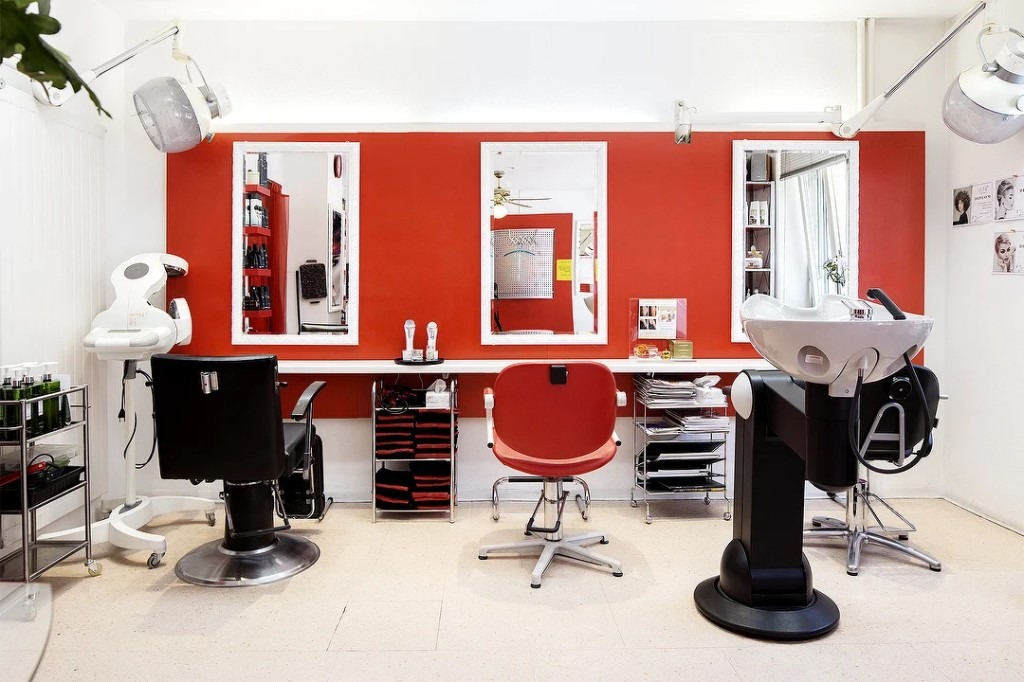
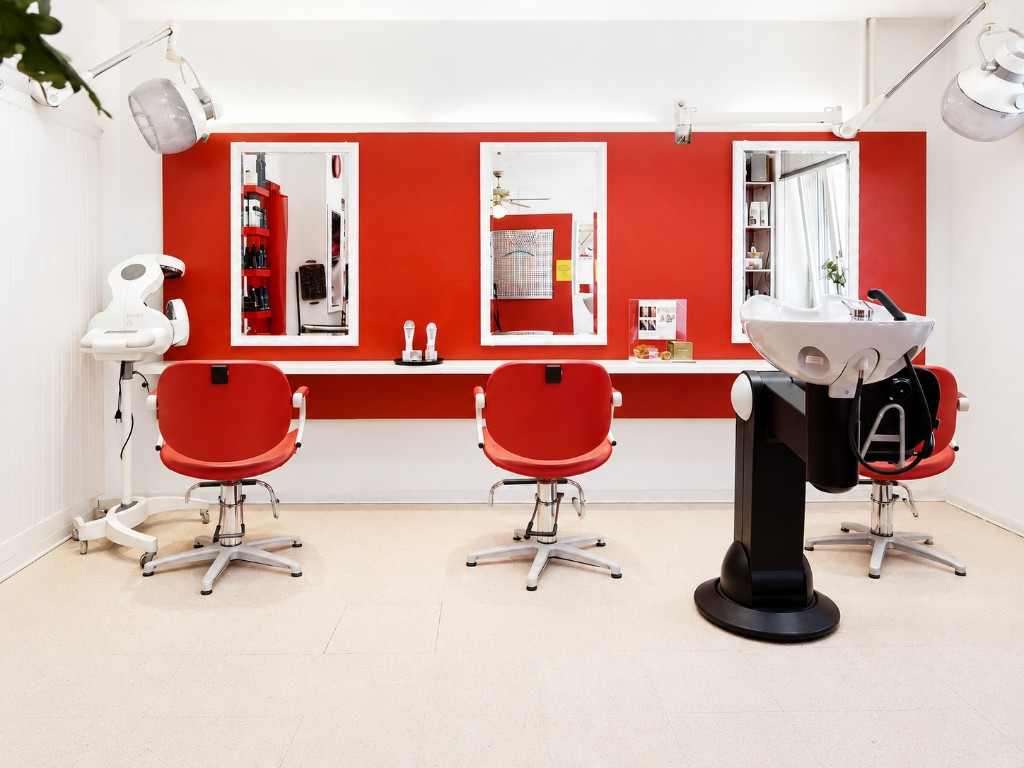
Kunden-Preview mit finalem Absagehinweis und den letzten Salon-Anpassungen bereitstellen.

diff --git a/salons/sonja/SonjaServicesPanel.tsx b/salons/sonja/SonjaServicesPanel.tsx
@@ -1,7 +1,13 @@
 import { TREATWELL_URL } from "./facts";
 import { sonjaServiceAreas } from "./services";
 
-export function SonjaServicesPanel({ bookingUrl }: { bookingUrl?: string }) {
+export function SonjaServicesPanel({
+  bookingUrl,
+  phoneHref,
+}: {
+  bookingUrl?: string;
+  phoneHref: string;
+}) {
   const href = bookingUrl ?? TREATWELL_URL;
 
   return (
@@ -16,14 +22,35 @@ export function SonjaServicesPanel({ bookingUrl }: { bookingUrl?: string }) {
           </li>
         ))}
       </ul>
-      <a
-        href={href}
-        target="_blank"
-        rel="noopener noreferrer"
-        className="mt-8 inline-flex min-h-14 items-center justify-center bg-accent px-7 text-[16px] font-medium text-accent-ink transition-opacity hover:opacity-90"
-      >
-        Termin buchen
-      </a>
+
+      <div className="mt-10 max-w-xl border-t border-line pt-8">
+        <p className="font-serif text-[1.25rem] font-semibold leading-snug tracking-tight md:text-[1.35rem]">
+          Zum ersten Mal bei Sonja oder unsicher, welche Leistung passt?
+        </p>
+        <p className="mt-3 text-[17px] leading-relaxed text-muted">
+          Rufen Sie kurz an – gemeinsam finden wir den passenden Termin.
+        </p>
+        <div className="mt-6 flex flex-col gap-3 sm:flex-row sm:flex-wrap">
+          <a
+            href={phoneHref}
+            className="inline-flex min-h-14 items-center justify-center bg-accent px-7 text-[16px] font-medium text-accent-ink transition-opacity hover:opacity-90"
+          >
+            Anrufen
+          </a>
+          <a
+            href={href}
+            target="_blank"
+            rel="noopener noreferrer"
+            className="inline-flex min-h-14 items-center justify-center border border-ink/25 px-7 text-[16px] font-medium transition-colors hover:border-accent hover:text-accent"
+          >
+            Termin buchen
+          </a>
+        </div>
+        <p className="mt-6 text-[14px] leading-relaxed text-muted">
+          Bitte sagen Sie Termine mindestens 24 Stunden im Voraus ab. Bei
+          kurzfristigeren Absagen wird eine Terminausfallentschädigung verrechnet.
+        </p>
+      </div>
     </div>
   );
 }

diff --git a/salons/sonja/content.ts b/salons/sonja/content.ts
@@ -10,7 +10,7 @@ export const content: SalonContent = {
     "Seit über 35 Jahren steht Sonja Rémy für persönliche Beratung, professionelle Coiffure und einen bewussten Umgang mit der Haargesundheit – mitten in Zürich-Wipkingen.",
   aboutTitle: "Persönlich. Herzlich. Mit Erfahrung.",
   aboutText:
-    "Über 35 Jahre Berufserfahrung und die Freude an meinem Beruf begleiten mich jeden Tag. In meinem kleinen Salon an der Nordstrasse nehme ich mir Zeit für persönliche Beratung und individuelle Wünsche. Haargesundheit ist mir sehr wichtig. Schönheit kommt von aussen – Haargesundheit von innen. Und da nehme ich mir gerne Zeit, Sie zu beraten. Ob klassischer Haarschnitt, moderne Farbe oder eine kleine Beauty-Behandlung – wichtig ist mir, dass Sie sich bei mir wohlfühlen und den Salon zufrieden verlassen.",
+    "Über 35 Jahre Berufserfahrung und die Freude an meinem Beruf begleiten mich jeden Tag. In meinem kleinen Salon an der Nordstrasse nehme ich mir Zeit für persönliche Beratung und individuelle Wünsche. Haargesundheit ist mir sehr wichtig. Schönheit kommt von aussen – Haargesundheit von innen. Ob klassischer Haarschnitt, moderne Farbe oder eine kleine Beauty-Behandlung – wichtig ist mir, dass Sie sich bei mir wohlfühlen und den Salon zufrieden verlassen.",
   address: {
     street: "Nordstrasse 237",
     zip: "8037",
@@ -37,6 +37,7 @@ export const content: SalonContent = {
     { id: "dauerwelle", title: "Dauerwelle" },
     { id: "augenbrauen", title: "Augenbrauen & Wimpern" },
     { id: "manicure", title: "Manicure / Nägel" },
+    { id: "haarausfallberatung", title: "Haarausfallberatung" },
   ],
   galleryTitle: "Der Salon",
   galleryIntro: "Klein, hell und persönlich – an der Nordstrasse in Zürich-Wipkingen.",

diff --git a/salons/sonja/facts.ts b/salons/sonja/facts.ts
@@ -59,6 +59,6 @@ export const sonjaReviews = [
 
 export const aboutParagraphs = [
   "Über 35 Jahre Berufserfahrung und die Freude an meinem Beruf begleiten mich jeden Tag. In meinem kleinen Salon an der Nordstrasse nehme ich mir Zeit für persönliche Beratung und individuelle Wünsche.",
-  "Haargesundheit ist mir sehr wichtig. Schönheit kommt von aussen – Haargesundheit von innen. Und da nehme ich mir gerne Zeit, Sie zu beraten.",
+  "Haargesundheit ist mir sehr wichtig. Schönheit kommt von aussen – Haargesundheit von innen.",
   "Ob klassischer Haarschnitt, moderne Farbe oder eine kleine Beauty-Behandlung – wichtig ist mir, dass Sie sich bei mir wohlfühlen und den Salon zufrieden verlassen.",
 ] as const;

diff --git a/salons/sonja/overrides.tsx b/salons/sonja/overrides.tsx
@@ -154,7 +154,7 @@ function SonjaServices({ salon }: SectionProps) {
         <p className="mt-4 max-w-xl text-[17px] leading-relaxed text-muted">
           {salon.content.servicesIntro}
         </p>
-        <SonjaServicesPanel bookingUrl={treatwellUrl(salon)} />
+        <SonjaServicesPanel bookingUrl={treatwellUrl(salon)} phoneHref={salon.phoneTel} />
       </FadeUp>
     </section>
   );

diff --git a/salons/sonja/services.ts b/salons/sonja/services.ts
@@ -10,4 +10,5 @@ export const sonjaServiceAreas: SonjaServiceArea[] = [
   { id: "dauerwelle", title: "Dauerwelle" },
   { id: "augenbrauen", title: "Augenbrauen & Wimpern" },
   { id: "manicure", title: "Manicure / Nägel" },
+  { id: "haarausfallberatung", title: "Haarausfallberatung" },
 ];
